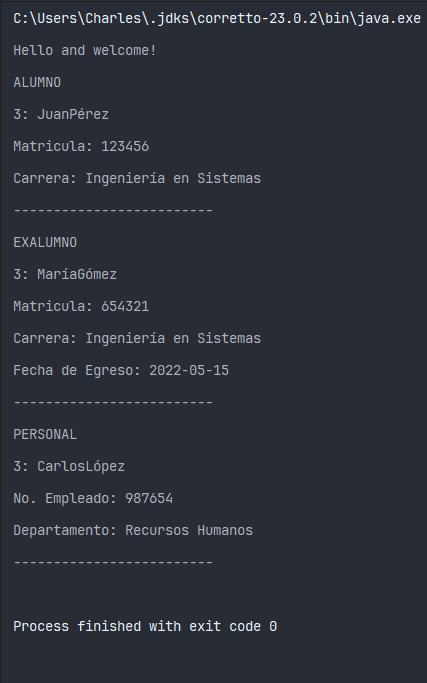
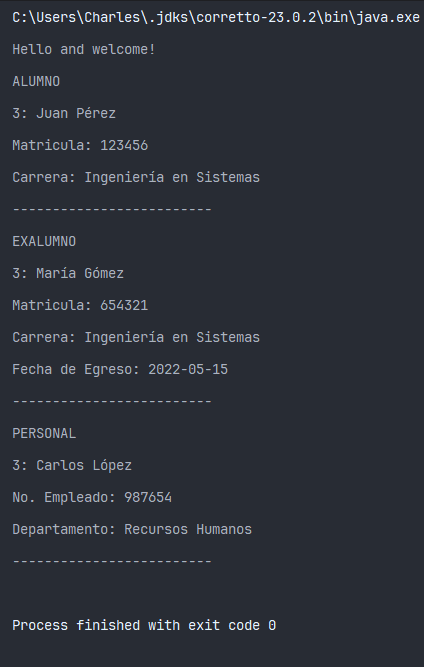
fix: los nombres no se mostraban correctamente

diff --git a/src/personal/PersonalAragon.java b/src/personal/PersonalAragon.java
@@ -26,7 +26,7 @@ public class PersonalAragon implements IPersonalAragon {
     }
 
     public void getInfo() {
-        String name = String.join(" ", nombre + apellido);
+        String name = nombre + " " + apellido;
         System.out.println(getCuenta() + ": " + name);
     }
 }
